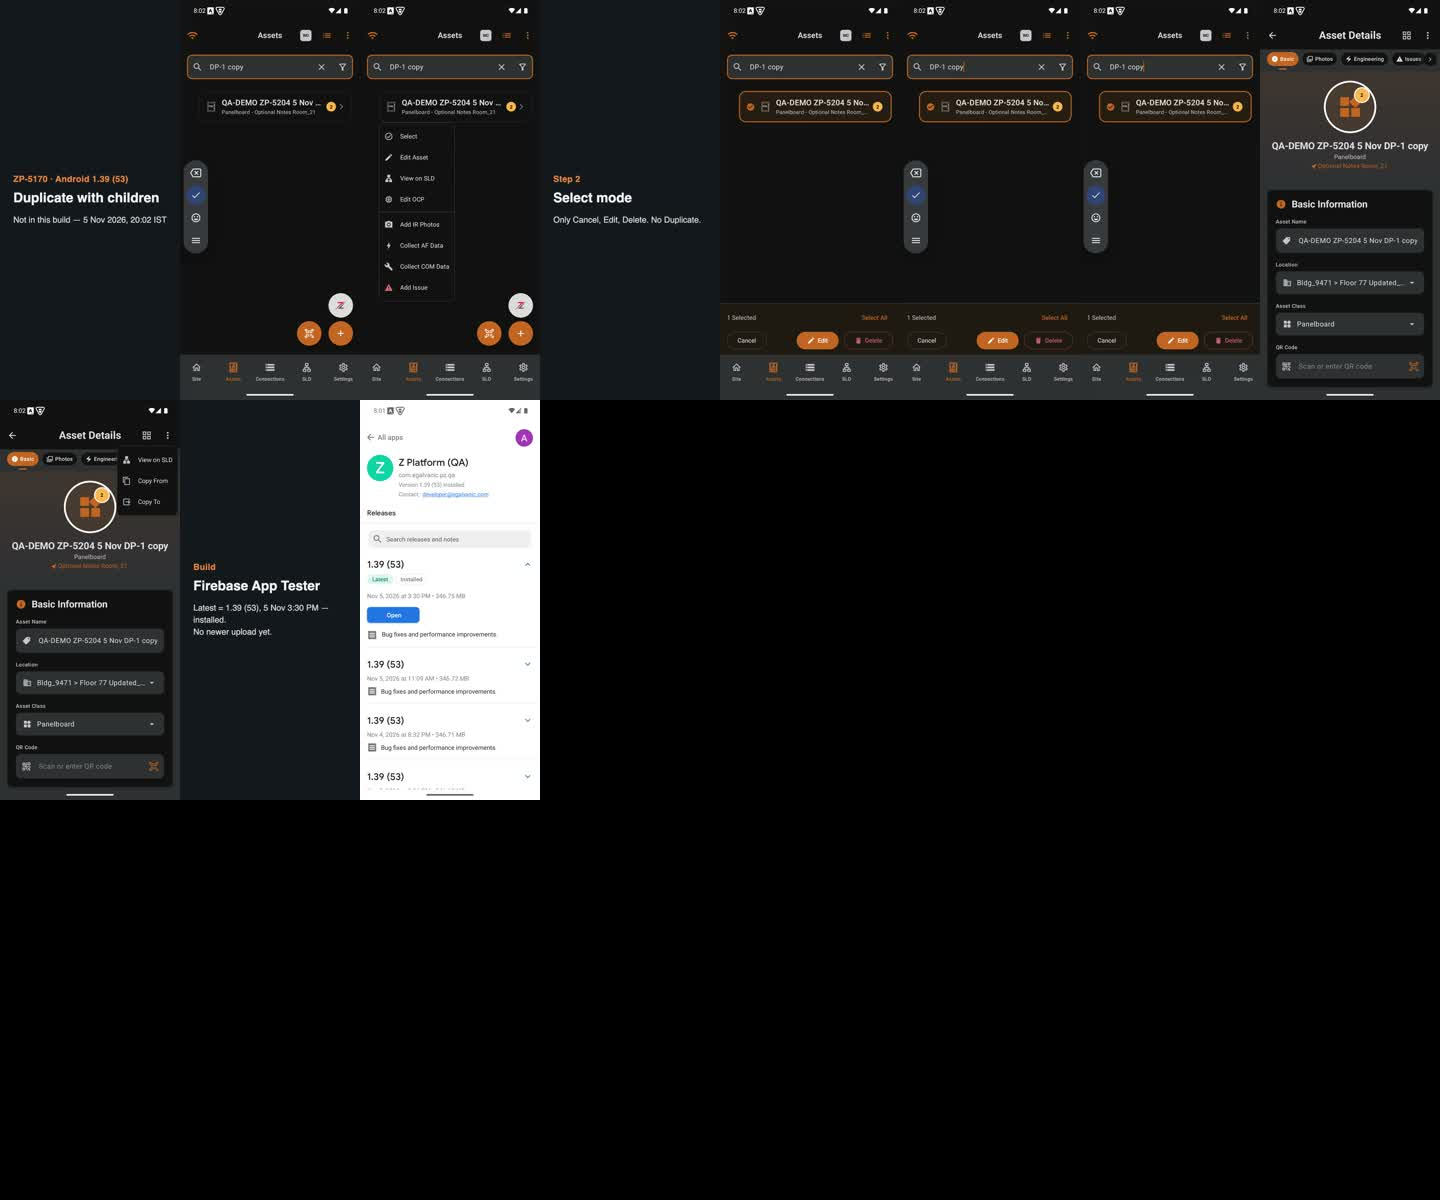
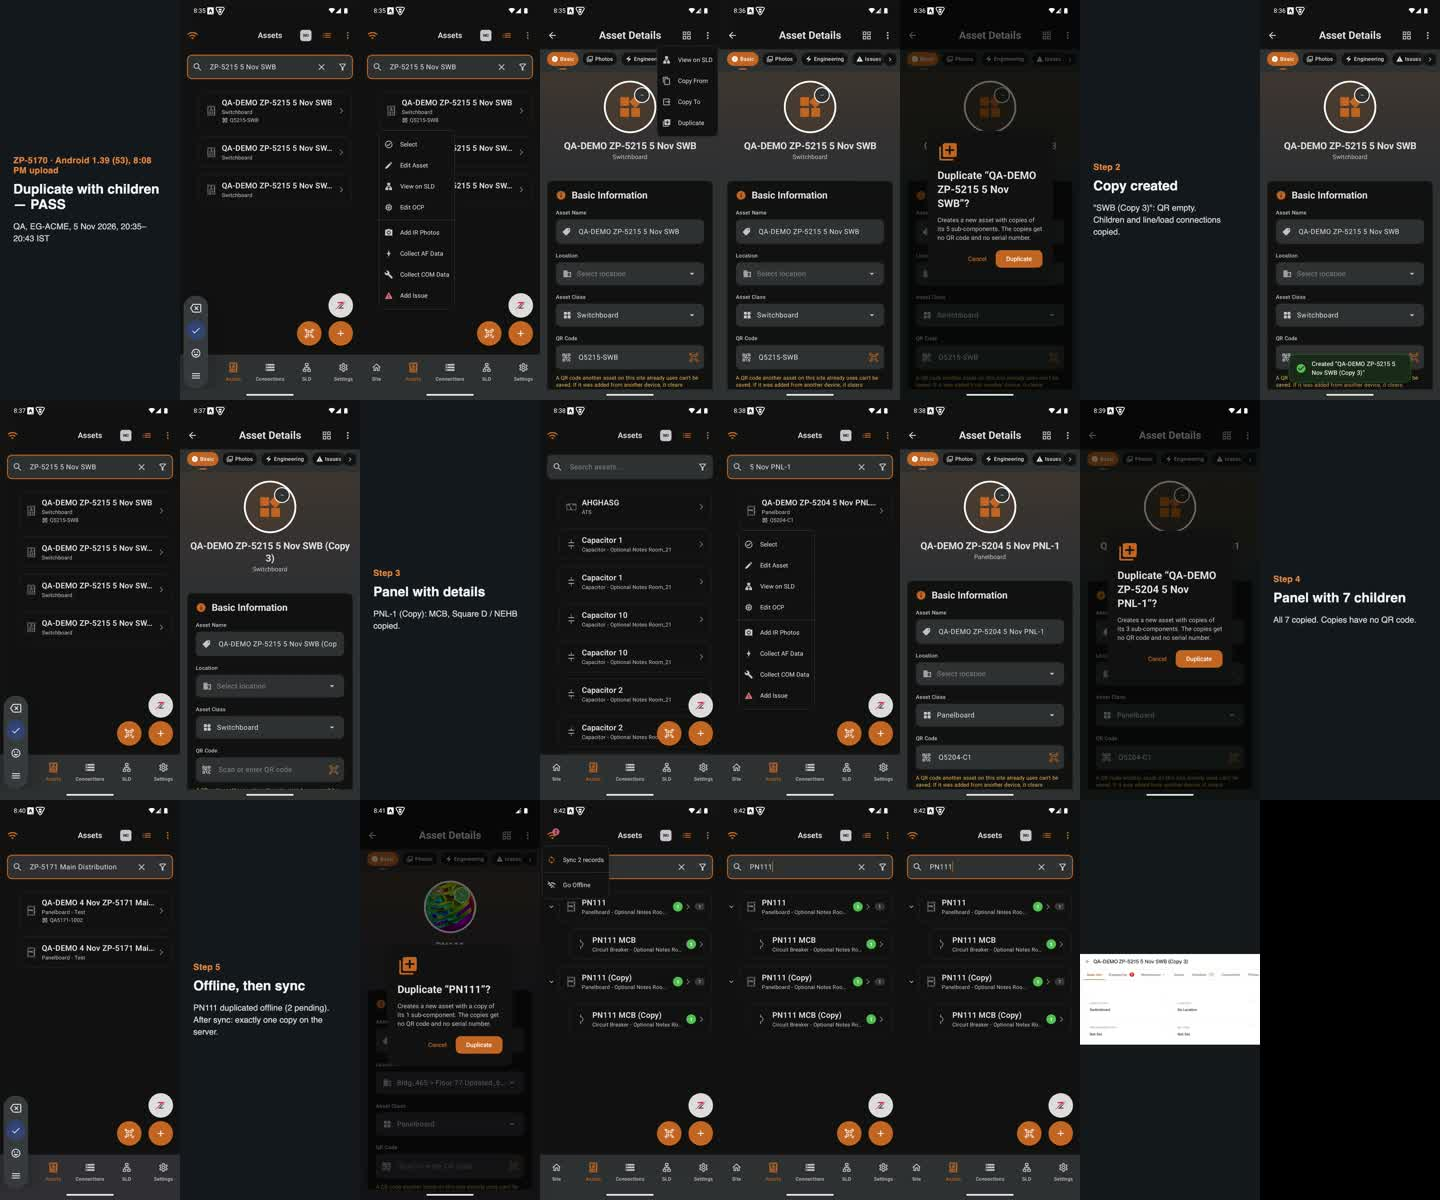
docs(qa): ZP-5170 PASS on Android 1.39 (53) 8:08 PM upload; ZP-5207/5201 re-checked; drafts and videos updated
Claude-Session: https://claude.ai/code/session_012891o2brKWBjtNPRUqE4jF

diff --git a/docs/changelogs/2026-11-05-android-rfq-round2-zp4988-zp5170.md b/docs/changelogs/2026-11-05-android-rfq-round2-zp4988-zp5170.md
@@ -55,3 +55,23 @@ Build under test: Android Z Platform (QA) **1.39 (53)**, the Firebase upload fro
 - The jira-chrome-reconnect-tasks (3) session has no signed-in Jira tab either.
 - Manifest: .playwright-mcp/v25/jira/post-manifest-5nov-rfq4.json. Waiting for the owner to sign in to Atlassian in the chrome-devtools window.
 - Status moves already done through the connector: ZP-5170, ZP-5207 and ZP-5201 → In QA.
+
+## 20:26–20:55 IST: new upload (Firebase 8:08 PM, installed 20:26 by the owner)
+- **ZP-5170: PASS on the 8:08 PM upload.** The path is Edit Asset › ⋯ › Duplicate; the view-mode ⋯ has no Duplicate. The dialog reads "Creates a new asset with copies of its N sub-components. The copies get no QR code and no serial number." Server checks:
+  - "QA-DEMO ZP-5215 5 Nov SWB (Copy 3)": 3 levels, 6 assets, line/load edges copied, QR/serial empty. The original keeps Q5215-SWB / SN-5215-SWB.
+  - "QA-DEMO ZP-5204 5 Nov PNL-1 (Copy)": MCB, Square D (110), NEHB (5) copied.
+  - "QA-DEMO 4 Nov ZP-5171 Main Distribution Panel (Copy)": 7 children, no QR.
+  - "PN111 (Copy)": done offline (2 pending), then synced. Exactly 1 copy (counts checked).
+  - Web shows the copies, QR Not Set.
+  - Child names repeat "(Copy)" across copies, which matches web.
+- **ZP-5207: PASS.** The QR note is now under every QR field, and used codes are still refused.
+- **ZP-5201: PASS** (still no "(New)").
+- **ZP-4988:** smoke check fine (PN111 MCB warning).
+- Jira:
+  - ZP-5201 and ZP-5207 were moved to READY TO RELEASE at 20:41 IST by someone else, with no comment.
+  - Manifest updated: ZP-5170 → RTR; ZP-5201 and ZP-5207 comment only.
+  - The bug waits for an 8:08 PM re-check of ZTest_28_07 (asked of the ios-automation-site-29 session, which has the emulator).
+- Posting is still blocked:
+  - jira-chrome-reconnect-tasks (3)'s permission check refused writes requested by another session.
+  - The owner must approve there, or tell this session to post.
+- ios-automation-site-29 is taking ZP-4863 and ZP-5168 on the 8:08 PM upload and will post the Android sign-off in eg-internal-dev.
